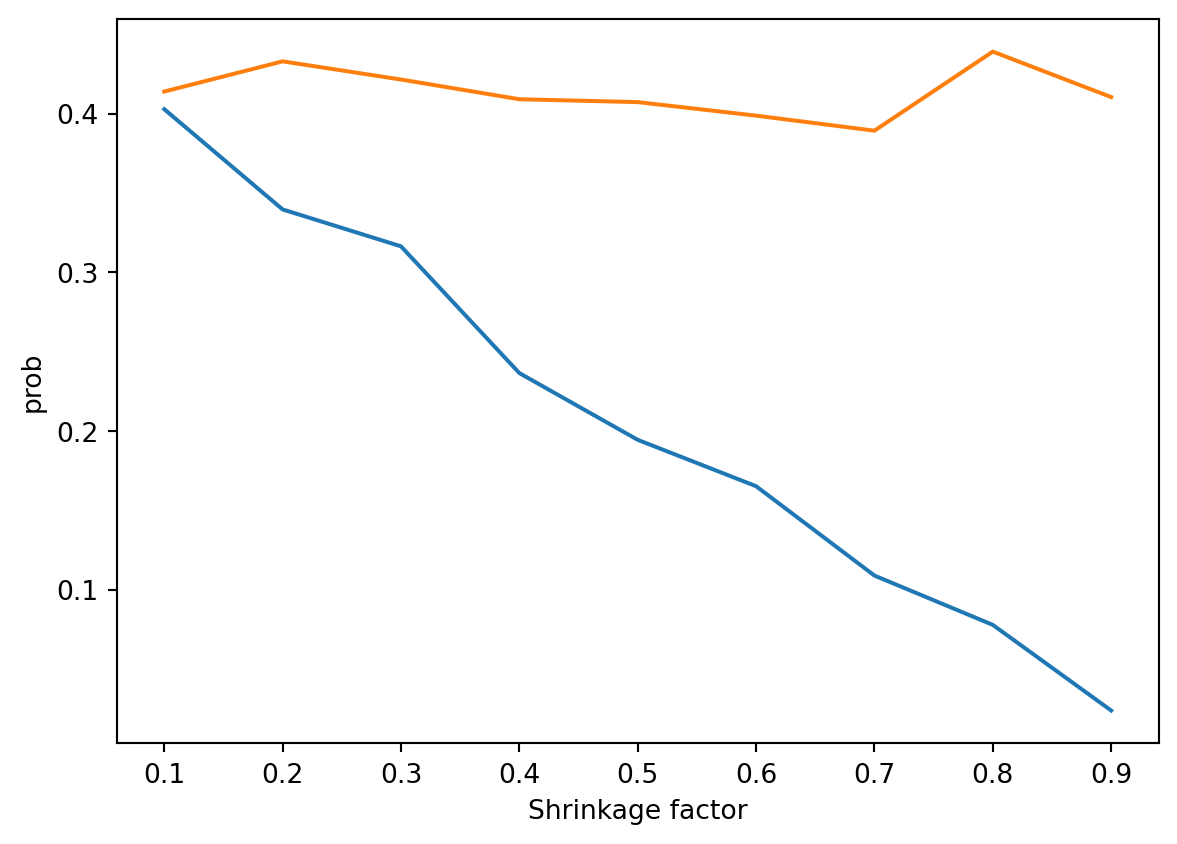
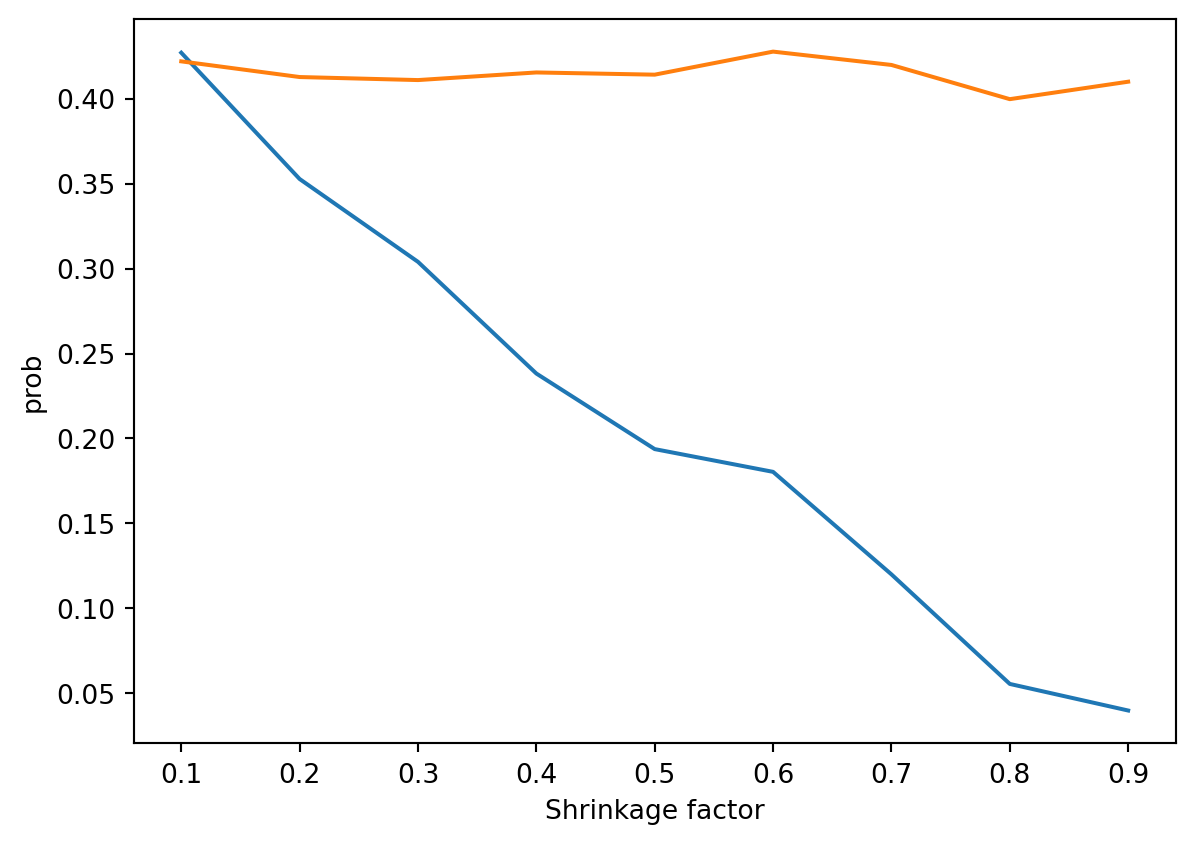
exp4

diff --git a/experiments/_site/exp4.html b/experiments/_site/exp4.html
@@ -100,20 +100,32 @@
     "collapse-after": 2,
     "panel-placement": "start",
     "type": "textbox",
-    "limit": 20
+    "limit": 20,
+    "language": {
+      "search-no-results-text": "No results",
+      "search-matching-documents-text": "matching documents",
+      "search-copy-link-title": "Copy link to search",
+      "search-hide-matches-text": "Hide additional matches",
+      "search-more-match-text": "more match in this document",
+      "search-more-matches-text": "more matches in this document",
+      "search-clear-button-title": "Clear",
+      "search-detached-cancel-button-title": "Cancel",
+      "search-submit-button-title": "Submit"
+    }
   }</script>
 </head>
-<body>
+<body class="fullcontent">
 <div id="quarto-search-results"></div>
- <!-- /navbar/sidebar -->
-<div class="container-fluid quarto-container d-flex flex-column page-layout-article" id="quarto-content">
-<div class="row flex-fill">
-  <div class="col mx-auto col-sm-12 col-md-11 col-lg-9 px-lg-4">
-<main>
+<!-- content -->
+<div id="quarto-content" class="quarto-container page-columns page-rows-contents page-layout-article">
+<!-- sidebar -->
+<!-- margin-sidebar -->
+<!-- main -->
+<main class="content">
 <section id="community-wide-impact-of-network-modifications" class="level1">
 <h1>Community-wide impact of network modifications</h1>
 <p>(This is Section 5.3)</p>
-<p>Same as <a href="experiment3.qmd">experiment 3</a>, but we range the community shrinkage from 0.1 to 0.9.</p>
+<p>Same as <a href="./exp3.html">experiment 3</a>, but we range the community shrinkage from 0.1 to 0.9.</p>
 <p></p><details>
 <summary>Code</summary><p></p>
 <div class="sourceCode" id="cb1"><pre class="sourceCode python cell-code code-with-copy"><code class="sourceCode python"><span id="cb1-1"><a href="#cb1-1" aria-hidden="true" tabindex="-1"></a><span class="im">from</span> exps <span class="im">import</span> <span class="op">*</span></span>
@@ -143,36 +155,44 @@
 <span id="cb1-25"><a href="#cb1-25" aria-hidden="true" tabindex="-1"></a>        n2 <span class="op">=</span> <span class="bu">int</span>(params[<span class="st">"n"</span>] <span class="op">*</span> (<span class="dv">1</span> <span class="op">-</span> <span class="fl">0.1</span>))</span>
 <span id="cb1-26"><a href="#cb1-26" aria-hidden="true" tabindex="-1"></a>        params[<span class="st">"n1"</span>] <span class="op">=</span> n1</span>
 <span id="cb1-27"><a href="#cb1-27" aria-hidden="true" tabindex="-1"></a>        params[<span class="st">"n2"</span>] <span class="op">=</span> n2</span>
-<span id="cb1-28"><a href="#cb1-28" aria-hidden="true" tabindex="-1"></a>        graph <span class="op">=</span> two_communities(params)</span>
-<span id="cb1-29"><a href="#cb1-29" aria-hidden="true" tabindex="-1"></a>        seeds <span class="op">=</span> set_seeds(params)</span>
-<span id="cb1-30"><a href="#cb1-30" aria-hidden="true" tabindex="-1"></a>        params[<span class="st">"graph"</span>] <span class="op">=</span> graph</span>
-<span id="cb1-31"><a href="#cb1-31" aria-hidden="true" tabindex="-1"></a>        params[<span class="st">"seeds"</span>] <span class="op">=</span> seeds</span>
-<span id="cb1-32"><a href="#cb1-32" aria-hidden="true" tabindex="-1"></a>        ic_result <span class="op">=</span> run_experiment(params)</span>
-<span id="cb1-33"><a href="#cb1-33" aria-hidden="true" tabindex="-1"></a>        ic_result <span class="op">=</span> f(ic_result, params)</span>
-<span id="cb1-34"><a href="#cb1-34" aria-hidden="true" tabindex="-1"></a>        c1, c2 <span class="op">=</span> split_result_by_communities(ic_result, params)</span>
-<span id="cb1-35"><a href="#cb1-35" aria-hidden="true" tabindex="-1"></a>        c1s.append(numpy.mean(c1))</span>
-<span id="cb1-36"><a href="#cb1-36" aria-hidden="true" tabindex="-1"></a>        c2s.append(numpy.mean(c2))</span>
-<span id="cb1-37"><a href="#cb1-37" aria-hidden="true" tabindex="-1"></a>    <span class="cf">return</span> c1s, c2s</span>
-<span id="cb1-38"><a href="#cb1-38" aria-hidden="true" tabindex="-1"></a>    </span>
-<span id="cb1-39"><a href="#cb1-39" aria-hidden="true" tabindex="-1"></a><span class="kw">def</span> <span class="bu">id</span>(r, params):</span>
-<span id="cb1-40"><a href="#cb1-40" aria-hidden="true" tabindex="-1"></a>    <span class="cf">return</span> r</span>
-<span id="cb1-41"><a href="#cb1-41" aria-hidden="true" tabindex="-1"></a><span class="kw">def</span> square(r, params):</span>
-<span id="cb1-42"><a href="#cb1-42" aria-hidden="true" tabindex="-1"></a>    <span class="cf">return</span> numpy.array(r) <span class="op">**</span> <span class="dv">2</span></span>
-<span id="cb1-43"><a href="#cb1-43" aria-hidden="true" tabindex="-1"></a><span class="kw">def</span> mean(r, params):</span>
-<span id="cb1-44"><a href="#cb1-44" aria-hidden="true" tabindex="-1"></a>    r <span class="op">=</span> collect_neighbor_data(r, params)</span>
-<span id="cb1-45"><a href="#cb1-45" aria-hidden="true" tabindex="-1"></a>    <span class="cf">return</span> <span class="bu">list</span>(numpy.mean(v) <span class="cf">for</span> v <span class="kw">in</span> r <span class="cf">if</span> <span class="bu">len</span>(v))</span>
-<span id="cb1-46"><a href="#cb1-46" aria-hidden="true" tabindex="-1"></a><span class="kw">def</span> <span class="bu">min</span>(r, params):</span>
-<span id="cb1-47"><a href="#cb1-47" aria-hidden="true" tabindex="-1"></a>    r <span class="op">=</span> collect_neighbor_data(r, params)</span>
-<span id="cb1-48"><a href="#cb1-48" aria-hidden="true" tabindex="-1"></a>    <span class="cf">return</span> <span class="bu">list</span>(numpy.<span class="bu">min</span>(v) <span class="cf">for</span> v <span class="kw">in</span> r <span class="cf">if</span> <span class="bu">len</span>(v))</span>
-<span id="cb1-49"><a href="#cb1-49" aria-hidden="true" tabindex="-1"></a>factors <span class="op">=</span> [<span class="fl">0.1</span>, <span class="fl">0.2</span>, <span class="fl">0.3</span>, <span class="fl">0.4</span>, <span class="fl">0.5</span>, <span class="fl">0.6</span>, <span class="fl">0.7</span>, <span class="fl">0.8</span>, <span class="fl">0.9</span>]</span>
-<span id="cb1-50"><a href="#cb1-50" aria-hidden="true" tabindex="-1"></a><span class="kw">def</span> plot_curve(f, label):</span>
-<span id="cb1-51"><a href="#cb1-51" aria-hidden="true" tabindex="-1"></a>    c1s, c2s <span class="op">=</span> run_experiment_range(factors, f)</span>
-<span id="cb1-52"><a href="#cb1-52" aria-hidden="true" tabindex="-1"></a>    plt.figure()</span>
-<span id="cb1-53"><a href="#cb1-53" aria-hidden="true" tabindex="-1"></a>    plt.plot(factors, c1s)</span>
-<span id="cb1-54"><a href="#cb1-54" aria-hidden="true" tabindex="-1"></a>    plt.plot(factors, c2s)</span>
-<span id="cb1-55"><a href="#cb1-55" aria-hidden="true" tabindex="-1"></a>    plt.xlabel(<span class="st">"Shrinkage factor"</span>)</span>
-<span id="cb1-56"><a href="#cb1-56" aria-hidden="true" tabindex="-1"></a>    plt.ylabel(label)</span>
-<span id="cb1-57"><a href="#cb1-57" aria-hidden="true" tabindex="-1"></a>    plt.show()</span></code><button title="Copy to Clipboard" class="code-copy-button"><i class="bi"></i></button></pre></div>
+<span id="cb1-28"><a href="#cb1-28" aria-hidden="true" tabindex="-1"></a>        params[<span class="st">"communities"</span>] <span class="op">=</span> [<span class="bu">list</span>(<span class="bu">range</span>(<span class="dv">0</span>, n1)), <span class="bu">list</span>(<span class="bu">range</span>(n1, n1 <span class="op">+</span> n2))]</span>
+<span id="cb1-29"><a href="#cb1-29" aria-hidden="true" tabindex="-1"></a>        params[<span class="st">"graph"</span>] <span class="op">=</span> two_communities(params)</span>
+<span id="cb1-30"><a href="#cb1-30" aria-hidden="true" tabindex="-1"></a>        params[<span class="st">"seeds"</span>] <span class="op">=</span> set_seeds(params)</span>
+<span id="cb1-31"><a href="#cb1-31" aria-hidden="true" tabindex="-1"></a>        ic_result <span class="op">=</span> run_experiment(params)</span>
+<span id="cb1-32"><a href="#cb1-32" aria-hidden="true" tabindex="-1"></a>        ic_result <span class="op">=</span> f(ic_result, params)</span>
+<span id="cb1-33"><a href="#cb1-33" aria-hidden="true" tabindex="-1"></a>        c1, c2 <span class="op">=</span> split_result_by_communities(ic_result, params)</span>
+<span id="cb1-34"><a href="#cb1-34" aria-hidden="true" tabindex="-1"></a>        c1s.append(numpy.mean(c1))</span>
+<span id="cb1-35"><a href="#cb1-35" aria-hidden="true" tabindex="-1"></a>        c2s.append(numpy.mean(c2))</span>
+<span id="cb1-36"><a href="#cb1-36" aria-hidden="true" tabindex="-1"></a>    <span class="cf">return</span> c1s, c2s</span>
+<span id="cb1-37"><a href="#cb1-37" aria-hidden="true" tabindex="-1"></a>    </span>
+<span id="cb1-38"><a href="#cb1-38" aria-hidden="true" tabindex="-1"></a><span class="kw">def</span> <span class="bu">id</span>(r, params):</span>
+<span id="cb1-39"><a href="#cb1-39" aria-hidden="true" tabindex="-1"></a>    <span class="cf">return</span> r</span>
+<span id="cb1-40"><a href="#cb1-40" aria-hidden="true" tabindex="-1"></a><span class="kw">def</span> square(r, params):</span>
+<span id="cb1-41"><a href="#cb1-41" aria-hidden="true" tabindex="-1"></a>    <span class="cf">return</span> numpy.array(r) <span class="op">**</span> <span class="dv">2</span></span>
+<span id="cb1-42"><a href="#cb1-42" aria-hidden="true" tabindex="-1"></a><span class="kw">def</span> mean(r, params):</span>
+<span id="cb1-43"><a href="#cb1-43" aria-hidden="true" tabindex="-1"></a>    r <span class="op">=</span> collect_neighbor_data(r, params)</span>
+<span id="cb1-44"><a href="#cb1-44" aria-hidden="true" tabindex="-1"></a>    <span class="kw">def</span> mean_or_none(v):</span>
+<span id="cb1-45"><a href="#cb1-45" aria-hidden="true" tabindex="-1"></a>        <span class="cf">if</span> <span class="bu">len</span>(v) <span class="op">==</span> <span class="dv">0</span>:</span>
+<span id="cb1-46"><a href="#cb1-46" aria-hidden="true" tabindex="-1"></a>            <span class="cf">return</span> <span class="va">None</span></span>
+<span id="cb1-47"><a href="#cb1-47" aria-hidden="true" tabindex="-1"></a>        <span class="cf">return</span> numpy.mean(v)</span>
+<span id="cb1-48"><a href="#cb1-48" aria-hidden="true" tabindex="-1"></a>    <span class="cf">return</span> <span class="bu">list</span>(mean_or_none(v) <span class="cf">for</span> v <span class="kw">in</span> r)</span>
+<span id="cb1-49"><a href="#cb1-49" aria-hidden="true" tabindex="-1"></a><span class="kw">def</span> <span class="bu">min</span>(r, params):</span>
+<span id="cb1-50"><a href="#cb1-50" aria-hidden="true" tabindex="-1"></a>    r <span class="op">=</span> collect_neighbor_data(r, params)</span>
+<span id="cb1-51"><a href="#cb1-51" aria-hidden="true" tabindex="-1"></a>    <span class="kw">def</span> min_or_none(v):</span>
+<span id="cb1-52"><a href="#cb1-52" aria-hidden="true" tabindex="-1"></a>        <span class="cf">if</span> <span class="bu">len</span>(v) <span class="op">==</span> <span class="dv">0</span>:</span>
+<span id="cb1-53"><a href="#cb1-53" aria-hidden="true" tabindex="-1"></a>            <span class="cf">return</span> <span class="va">None</span></span>
+<span id="cb1-54"><a href="#cb1-54" aria-hidden="true" tabindex="-1"></a>        <span class="cf">return</span> numpy.<span class="bu">min</span>(v)</span>
+<span id="cb1-55"><a href="#cb1-55" aria-hidden="true" tabindex="-1"></a>    <span class="cf">return</span> <span class="bu">list</span>(min_or_none(v) <span class="cf">for</span> v <span class="kw">in</span> r)</span>
+<span id="cb1-56"><a href="#cb1-56" aria-hidden="true" tabindex="-1"></a></span>
+<span id="cb1-57"><a href="#cb1-57" aria-hidden="true" tabindex="-1"></a>factors <span class="op">=</span> [<span class="fl">0.1</span>, <span class="fl">0.2</span>, <span class="fl">0.3</span>, <span class="fl">0.4</span>, <span class="fl">0.5</span>, <span class="fl">0.6</span>, <span class="fl">0.7</span>, <span class="fl">0.8</span>, <span class="fl">0.9</span>]</span>
+<span id="cb1-58"><a href="#cb1-58" aria-hidden="true" tabindex="-1"></a><span class="kw">def</span> plot_curve(f, label):</span>
+<span id="cb1-59"><a href="#cb1-59" aria-hidden="true" tabindex="-1"></a>    c1s, c2s <span class="op">=</span> run_experiment_range(factors, f)</span>
+<span id="cb1-60"><a href="#cb1-60" aria-hidden="true" tabindex="-1"></a>    plt.figure()</span>
+<span id="cb1-61"><a href="#cb1-61" aria-hidden="true" tabindex="-1"></a>    plt.plot(factors, c1s)</span>
+<span id="cb1-62"><a href="#cb1-62" aria-hidden="true" tabindex="-1"></a>    plt.plot(factors, c2s)</span>
+<span id="cb1-63"><a href="#cb1-63" aria-hidden="true" tabindex="-1"></a>    plt.xlabel(<span class="st">"Shrinkage factor"</span>)</span>
+<span id="cb1-64"><a href="#cb1-64" aria-hidden="true" tabindex="-1"></a>    plt.ylabel(label)</span>
+<span id="cb1-65"><a href="#cb1-65" aria-hidden="true" tabindex="-1"></a>    plt.show()</span></code><button title="Copy to Clipboard" class="code-copy-button"><i class="bi"></i></button></pre></div>
 </details>
 <p>No transformation:</p>
 <div class="cell" data-execution_count="2">
@@ -181,7 +201,7 @@
 <div class="sourceCode" id="cb2"><pre class="sourceCode python cell-code code-with-copy"><code class="sourceCode python"><span id="cb2-1"><a href="#cb2-1" aria-hidden="true" tabindex="-1"></a>plot_curve(<span class="bu">id</span>, <span class="st">"prob"</span>)</span></code><button title="Copy to Clipboard" class="code-copy-button"><i class="bi"></i></button></pre></div>
 </details>
 <div class="cell-output-display">
-<p><img src="exp4_files/figure-html/cell-3-output-1.png" width="589" height="422"></p>
+<p><img src="exp4_files/figure-html/cell-3-output-1.png" width="597" height="422"></p>
 </div>
 </div>
 <p>Square:</p>
@@ -217,7 +237,7 @@
 
 
 <!-- -->
-<div class="modal fade" id="quarto-embedded-source-code-modal" tabindex="-1" aria-labelledby="quarto-embedded-source-code-modal-label" aria-hidden="true"><div class="modal-dialog modal-dialog-scrollable"><div class="modal-content"><div class="modal-header"><h5 class="modal-title anchored" id="quarto-embedded-source-code-modal-label" data-anchor-id="community-wide-impact-of-network-modifications">Source Code</h5><button class="btn-close" data-bs-dismiss="modal" aria-label="Close"></button></div><div class="modal-body"><div class="">
+<div class="modal fade" id="quarto-embedded-source-code-modal" tabindex="-1" aria-labelledby="quarto-embedded-source-code-modal-label" aria-hidden="true"><div class="modal-dialog modal-dialog-scrollable"><div class="modal-content"><div class="modal-header"><h5 class="modal-title anchored" id="quarto-embedded-source-code-modal-label" data-anchor-id="community-wide-impact-of-network-modifications">Source Code</h5><button class="btn-close" data-bs-dismiss="modal"></button></div><div class="modal-body"><div class="">
 <div class="sourceCode" id="cb6" data-shortcodes="false"><pre class="sourceCode markdown code-with-copy"><code class="sourceCode markdown"><span id="cb6-1"><a href="#cb6-1" aria-hidden="true" tabindex="-1"></a><span class="co">---</span></span>
 <span id="cb6-2"><a href="#cb6-2" aria-hidden="true" tabindex="-1"></a><span class="an">Title:</span><span class="co"> "Experiment 4"</span></span>
 <span id="cb6-3"><a href="#cb6-3" aria-hidden="true" tabindex="-1"></a><span class="an">format:</span><span class="co"> </span></span>
@@ -230,7 +250,7 @@
 <span id="cb6-10"><a href="#cb6-10" aria-hidden="true" tabindex="-1"></a></span>
 <span id="cb6-11"><a href="#cb6-11" aria-hidden="true" tabindex="-1"></a>(This is Section 5.3)</span>
 <span id="cb6-12"><a href="#cb6-12" aria-hidden="true" tabindex="-1"></a></span>
-<span id="cb6-13"><a href="#cb6-13" aria-hidden="true" tabindex="-1"></a>Same as <span class="co">[</span><span class="ot">experiment 3</span><span class="co">](experiment3.qmd)</span>, but we range the community shrinkage from 0.1 to 0.9.</span>
+<span id="cb6-13"><a href="#cb6-13" aria-hidden="true" tabindex="-1"></a>Same as <span class="co">[</span><span class="ot">experiment 3</span><span class="co">](exp3.qmd)</span>, but we range the community shrinkage from 0.1 to 0.9.</span>
 <span id="cb6-14"><a href="#cb6-14" aria-hidden="true" tabindex="-1"></a></span>
 <span id="cb6-17"><a href="#cb6-17" aria-hidden="true" tabindex="-1"></a><span class="in">```{python}</span></span>
 <span id="cb6-18"><a href="#cb6-18" aria-hidden="true" tabindex="-1"></a><span class="im">from</span> exps <span class="im">import</span> <span class="op">*</span></span>
@@ -260,65 +280,74 @@
 <span id="cb6-42"><a href="#cb6-42" aria-hidden="true" tabindex="-1"></a>        n2 <span class="op">=</span> <span class="bu">int</span>(params[<span class="st">"n"</span>] <span class="op">*</span> (<span class="dv">1</span> <span class="op">-</span> <span class="fl">0.1</span>))</span>
 <span id="cb6-43"><a href="#cb6-43" aria-hidden="true" tabindex="-1"></a>        params[<span class="st">"n1"</span>] <span class="op">=</span> n1</span>
 <span id="cb6-44"><a href="#cb6-44" aria-hidden="true" tabindex="-1"></a>        params[<span class="st">"n2"</span>] <span class="op">=</span> n2</span>
-<span id="cb6-45"><a href="#cb6-45" aria-hidden="true" tabindex="-1"></a>        graph <span class="op">=</span> two_communities(params)</span>
-<span id="cb6-46"><a href="#cb6-46" aria-hidden="true" tabindex="-1"></a>        seeds <span class="op">=</span> set_seeds(params)</span>
-<span id="cb6-47"><a href="#cb6-47" aria-hidden="true" tabindex="-1"></a>        params[<span class="st">"graph"</span>] <span class="op">=</span> graph</span>
-<span id="cb6-48"><a href="#cb6-48" aria-hidden="true" tabindex="-1"></a>        params[<span class="st">"seeds"</span>] <span class="op">=</span> seeds</span>
-<span id="cb6-49"><a href="#cb6-49" aria-hidden="true" tabindex="-1"></a>        ic_result <span class="op">=</span> run_experiment(params)</span>
-<span id="cb6-50"><a href="#cb6-50" aria-hidden="true" tabindex="-1"></a>        ic_result <span class="op">=</span> f(ic_result, params)</span>
-<span id="cb6-51"><a href="#cb6-51" aria-hidden="true" tabindex="-1"></a>        c1, c2 <span class="op">=</span> split_result_by_communities(ic_result, params)</span>
-<span id="cb6-52"><a href="#cb6-52" aria-hidden="true" tabindex="-1"></a>        c1s.append(numpy.mean(c1))</span>
-<span id="cb6-53"><a href="#cb6-53" aria-hidden="true" tabindex="-1"></a>        c2s.append(numpy.mean(c2))</span>
-<span id="cb6-54"><a href="#cb6-54" aria-hidden="true" tabindex="-1"></a>    <span class="cf">return</span> c1s, c2s</span>
-<span id="cb6-55"><a href="#cb6-55" aria-hidden="true" tabindex="-1"></a>    </span>
-<span id="cb6-56"><a href="#cb6-56" aria-hidden="true" tabindex="-1"></a><span class="kw">def</span> <span class="bu">id</span>(r, params):</span>
-<span id="cb6-57"><a href="#cb6-57" aria-hidden="true" tabindex="-1"></a>    <span class="cf">return</span> r</span>
-<span id="cb6-58"><a href="#cb6-58" aria-hidden="true" tabindex="-1"></a><span class="kw">def</span> square(r, params):</span>
-<span id="cb6-59"><a href="#cb6-59" aria-hidden="true" tabindex="-1"></a>    <span class="cf">return</span> numpy.array(r) <span class="op">**</span> <span class="dv">2</span></span>
-<span id="cb6-60"><a href="#cb6-60" aria-hidden="true" tabindex="-1"></a><span class="kw">def</span> mean(r, params):</span>
-<span id="cb6-61"><a href="#cb6-61" aria-hidden="true" tabindex="-1"></a>    r <span class="op">=</span> collect_neighbor_data(r, params)</span>
-<span id="cb6-62"><a href="#cb6-62" aria-hidden="true" tabindex="-1"></a>    <span class="cf">return</span> <span class="bu">list</span>(numpy.mean(v) <span class="cf">for</span> v <span class="kw">in</span> r <span class="cf">if</span> <span class="bu">len</span>(v))</span>
-<span id="cb6-63"><a href="#cb6-63" aria-hidden="true" tabindex="-1"></a><span class="kw">def</span> <span class="bu">min</span>(r, params):</span>
-<span id="cb6-64"><a href="#cb6-64" aria-hidden="true" tabindex="-1"></a>    r <span class="op">=</span> collect_neighbor_data(r, params)</span>
-<span id="cb6-65"><a href="#cb6-65" aria-hidden="true" tabindex="-1"></a>    <span class="cf">return</span> <span class="bu">list</span>(numpy.<span class="bu">min</span>(v) <span class="cf">for</span> v <span class="kw">in</span> r <span class="cf">if</span> <span class="bu">len</span>(v))</span>
-<span id="cb6-66"><a href="#cb6-66" aria-hidden="true" tabindex="-1"></a>factors <span class="op">=</span> [<span class="fl">0.1</span>, <span class="fl">0.2</span>, <span class="fl">0.3</span>, <span class="fl">0.4</span>, <span class="fl">0.5</span>, <span class="fl">0.6</span>, <span class="fl">0.7</span>, <span class="fl">0.8</span>, <span class="fl">0.9</span>]</span>
-<span id="cb6-67"><a href="#cb6-67" aria-hidden="true" tabindex="-1"></a><span class="kw">def</span> plot_curve(f, label):</span>
-<span id="cb6-68"><a href="#cb6-68" aria-hidden="true" tabindex="-1"></a>    c1s, c2s <span class="op">=</span> run_experiment_range(factors, f)</span>
-<span id="cb6-69"><a href="#cb6-69" aria-hidden="true" tabindex="-1"></a>    plt.figure()</span>
-<span id="cb6-70"><a href="#cb6-70" aria-hidden="true" tabindex="-1"></a>    plt.plot(factors, c1s)</span>
-<span id="cb6-71"><a href="#cb6-71" aria-hidden="true" tabindex="-1"></a>    plt.plot(factors, c2s)</span>
-<span id="cb6-72"><a href="#cb6-72" aria-hidden="true" tabindex="-1"></a>    plt.xlabel(<span class="st">"Shrinkage factor"</span>)</span>
-<span id="cb6-73"><a href="#cb6-73" aria-hidden="true" tabindex="-1"></a>    plt.ylabel(label)</span>
-<span id="cb6-74"><a href="#cb6-74" aria-hidden="true" tabindex="-1"></a>    plt.show()</span>
-<span id="cb6-75"><a href="#cb6-75" aria-hidden="true" tabindex="-1"></a></span>
-<span id="cb6-76"><a href="#cb6-76" aria-hidden="true" tabindex="-1"></a><span class="in">```</span></span>
-<span id="cb6-77"><a href="#cb6-77" aria-hidden="true" tabindex="-1"></a></span>
-<span id="cb6-78"><a href="#cb6-78" aria-hidden="true" tabindex="-1"></a>No transformation:</span>
-<span id="cb6-79"><a href="#cb6-79" aria-hidden="true" tabindex="-1"></a></span>
-<span id="cb6-82"><a href="#cb6-82" aria-hidden="true" tabindex="-1"></a><span class="in">```{python}</span></span>
-<span id="cb6-83"><a href="#cb6-83" aria-hidden="true" tabindex="-1"></a>plot_curve(<span class="bu">id</span>, <span class="st">"prob"</span>)</span>
+<span id="cb6-45"><a href="#cb6-45" aria-hidden="true" tabindex="-1"></a>        params[<span class="st">"communities"</span>] <span class="op">=</span> [<span class="bu">list</span>(<span class="bu">range</span>(<span class="dv">0</span>, n1)), <span class="bu">list</span>(<span class="bu">range</span>(n1, n1 <span class="op">+</span> n2))]</span>
+<span id="cb6-46"><a href="#cb6-46" aria-hidden="true" tabindex="-1"></a>        params[<span class="st">"graph"</span>] <span class="op">=</span> two_communities(params)</span>
+<span id="cb6-47"><a href="#cb6-47" aria-hidden="true" tabindex="-1"></a>        params[<span class="st">"seeds"</span>] <span class="op">=</span> set_seeds(params)</span>
+<span id="cb6-48"><a href="#cb6-48" aria-hidden="true" tabindex="-1"></a>        ic_result <span class="op">=</span> run_experiment(params)</span>
+<span id="cb6-49"><a href="#cb6-49" aria-hidden="true" tabindex="-1"></a>        ic_result <span class="op">=</span> f(ic_result, params)</span>
+<span id="cb6-50"><a href="#cb6-50" aria-hidden="true" tabindex="-1"></a>        c1, c2 <span class="op">=</span> split_result_by_communities(ic_result, params)</span>
+<span id="cb6-51"><a href="#cb6-51" aria-hidden="true" tabindex="-1"></a>        c1s.append(numpy.mean(c1))</span>
+<span id="cb6-52"><a href="#cb6-52" aria-hidden="true" tabindex="-1"></a>        c2s.append(numpy.mean(c2))</span>
+<span id="cb6-53"><a href="#cb6-53" aria-hidden="true" tabindex="-1"></a>    <span class="cf">return</span> c1s, c2s</span>
+<span id="cb6-54"><a href="#cb6-54" aria-hidden="true" tabindex="-1"></a>    </span>
+<span id="cb6-55"><a href="#cb6-55" aria-hidden="true" tabindex="-1"></a><span class="kw">def</span> <span class="bu">id</span>(r, params):</span>
+<span id="cb6-56"><a href="#cb6-56" aria-hidden="true" tabindex="-1"></a>    <span class="cf">return</span> r</span>
+<span id="cb6-57"><a href="#cb6-57" aria-hidden="true" tabindex="-1"></a><span class="kw">def</span> square(r, params):</span>
+<span id="cb6-58"><a href="#cb6-58" aria-hidden="true" tabindex="-1"></a>    <span class="cf">return</span> numpy.array(r) <span class="op">**</span> <span class="dv">2</span></span>
+<span id="cb6-59"><a href="#cb6-59" aria-hidden="true" tabindex="-1"></a><span class="kw">def</span> mean(r, params):</span>
+<span id="cb6-60"><a href="#cb6-60" aria-hidden="true" tabindex="-1"></a>    r <span class="op">=</span> collect_neighbor_data(r, params)</span>
+<span id="cb6-61"><a href="#cb6-61" aria-hidden="true" tabindex="-1"></a>    <span class="kw">def</span> mean_or_none(v):</span>
+<span id="cb6-62"><a href="#cb6-62" aria-hidden="true" tabindex="-1"></a>        <span class="cf">if</span> <span class="bu">len</span>(v) <span class="op">==</span> <span class="dv">0</span>:</span>
+<span id="cb6-63"><a href="#cb6-63" aria-hidden="true" tabindex="-1"></a>            <span class="cf">return</span> <span class="va">None</span></span>
+<span id="cb6-64"><a href="#cb6-64" aria-hidden="true" tabindex="-1"></a>        <span class="cf">return</span> numpy.mean(v)</span>
+<span id="cb6-65"><a href="#cb6-65" aria-hidden="true" tabindex="-1"></a>    <span class="cf">return</span> <span class="bu">list</span>(mean_or_none(v) <span class="cf">for</span> v <span class="kw">in</span> r)</span>
+<span id="cb6-66"><a href="#cb6-66" aria-hidden="true" tabindex="-1"></a><span class="kw">def</span> <span class="bu">min</span>(r, params):</span>
+<span id="cb6-67"><a href="#cb6-67" aria-hidden="true" tabindex="-1"></a>    r <span class="op">=</span> collect_neighbor_data(r, params)</span>
+<span id="cb6-68"><a href="#cb6-68" aria-hidden="true" tabindex="-1"></a>    <span class="kw">def</span> min_or_none(v):</span>
+<span id="cb6-69"><a href="#cb6-69" aria-hidden="true" tabindex="-1"></a>        <span class="cf">if</span> <span class="bu">len</span>(v) <span class="op">==</span> <span class="dv">0</span>:</span>
+<span id="cb6-70"><a href="#cb6-70" aria-hidden="true" tabindex="-1"></a>            <span class="cf">return</span> <span class="va">None</span></span>
+<span id="cb6-71"><a href="#cb6-71" aria-hidden="true" tabindex="-1"></a>        <span class="cf">return</span> numpy.<span class="bu">min</span>(v)</span>
+<span id="cb6-72"><a href="#cb6-72" aria-hidden="true" tabindex="-1"></a>    <span class="cf">return</span> <span class="bu">list</span>(min_or_none(v) <span class="cf">for</span> v <span class="kw">in</span> r)</span>
+<span id="cb6-73"><a href="#cb6-73" aria-hidden="true" tabindex="-1"></a></span>
+<span id="cb6-74"><a href="#cb6-74" aria-hidden="true" tabindex="-1"></a>factors <span class="op">=</span> [<span class="fl">0.1</span>, <span class="fl">0.2</span>, <span class="fl">0.3</span>, <span class="fl">0.4</span>, <span class="fl">0.5</span>, <span class="fl">0.6</span>, <span class="fl">0.7</span>, <span class="fl">0.8</span>, <span class="fl">0.9</span>]</span>
+<span id="cb6-75"><a href="#cb6-75" aria-hidden="true" tabindex="-1"></a><span class="kw">def</span> plot_curve(f, label):</span>
+<span id="cb6-76"><a href="#cb6-76" aria-hidden="true" tabindex="-1"></a>    c1s, c2s <span class="op">=</span> run_experiment_range(factors, f)</span>
+<span id="cb6-77"><a href="#cb6-77" aria-hidden="true" tabindex="-1"></a>    plt.figure()</span>
+<span id="cb6-78"><a href="#cb6-78" aria-hidden="true" tabindex="-1"></a>    plt.plot(factors, c1s)</span>
+<span id="cb6-79"><a href="#cb6-79" aria-hidden="true" tabindex="-1"></a>    plt.plot(factors, c2s)</span>
+<span id="cb6-80"><a href="#cb6-80" aria-hidden="true" tabindex="-1"></a>    plt.xlabel(<span class="st">"Shrinkage factor"</span>)</span>
+<span id="cb6-81"><a href="#cb6-81" aria-hidden="true" tabindex="-1"></a>    plt.ylabel(label)</span>
+<span id="cb6-82"><a href="#cb6-82" aria-hidden="true" tabindex="-1"></a>    plt.show()</span>
+<span id="cb6-83"><a href="#cb6-83" aria-hidden="true" tabindex="-1"></a></span>
 <span id="cb6-84"><a href="#cb6-84" aria-hidden="true" tabindex="-1"></a><span class="in">```</span></span>
 <span id="cb6-85"><a href="#cb6-85" aria-hidden="true" tabindex="-1"></a></span>
-<span id="cb6-86"><a href="#cb6-86" aria-hidden="true" tabindex="-1"></a>Square:</span>
+<span id="cb6-86"><a href="#cb6-86" aria-hidden="true" tabindex="-1"></a>No transformation:</span>
 <span id="cb6-87"><a href="#cb6-87" aria-hidden="true" tabindex="-1"></a></span>
 <span id="cb6-90"><a href="#cb6-90" aria-hidden="true" tabindex="-1"></a><span class="in">```{python}</span></span>
-<span id="cb6-91"><a href="#cb6-91" aria-hidden="true" tabindex="-1"></a>plot_curve(square, <span class="st">"squared prob"</span>)</span>
+<span id="cb6-91"><a href="#cb6-91" aria-hidden="true" tabindex="-1"></a>plot_curve(<span class="bu">id</span>, <span class="st">"prob"</span>)</span>
 <span id="cb6-92"><a href="#cb6-92" aria-hidden="true" tabindex="-1"></a><span class="in">```</span></span>
 <span id="cb6-93"><a href="#cb6-93" aria-hidden="true" tabindex="-1"></a></span>
-<span id="cb6-94"><a href="#cb6-94" aria-hidden="true" tabindex="-1"></a>Mean of neighbors:</span>
+<span id="cb6-94"><a href="#cb6-94" aria-hidden="true" tabindex="-1"></a>Square:</span>
 <span id="cb6-95"><a href="#cb6-95" aria-hidden="true" tabindex="-1"></a></span>
 <span id="cb6-98"><a href="#cb6-98" aria-hidden="true" tabindex="-1"></a><span class="in">```{python}</span></span>
-<span id="cb6-99"><a href="#cb6-99" aria-hidden="true" tabindex="-1"></a>plot_curve(mean, <span class="st">"mean of neighbors' prob"</span>)</span>
+<span id="cb6-99"><a href="#cb6-99" aria-hidden="true" tabindex="-1"></a>plot_curve(square, <span class="st">"squared prob"</span>)</span>
 <span id="cb6-100"><a href="#cb6-100" aria-hidden="true" tabindex="-1"></a><span class="in">```</span></span>
 <span id="cb6-101"><a href="#cb6-101" aria-hidden="true" tabindex="-1"></a></span>
-<span id="cb6-102"><a href="#cb6-102" aria-hidden="true" tabindex="-1"></a>Min of neighbors:</span>
+<span id="cb6-102"><a href="#cb6-102" aria-hidden="true" tabindex="-1"></a>Mean of neighbors:</span>
 <span id="cb6-103"><a href="#cb6-103" aria-hidden="true" tabindex="-1"></a></span>
 <span id="cb6-106"><a href="#cb6-106" aria-hidden="true" tabindex="-1"></a><span class="in">```{python}</span></span>
-<span id="cb6-107"><a href="#cb6-107" aria-hidden="true" tabindex="-1"></a>plot_curve(<span class="bu">min</span>, <span class="st">"min of neighbors' prob"</span>)</span>
+<span id="cb6-107"><a href="#cb6-107" aria-hidden="true" tabindex="-1"></a>plot_curve(mean, <span class="st">"mean of neighbors' prob"</span>)</span>
 <span id="cb6-108"><a href="#cb6-108" aria-hidden="true" tabindex="-1"></a><span class="in">```</span></span>
+<span id="cb6-109"><a href="#cb6-109" aria-hidden="true" tabindex="-1"></a></span>
+<span id="cb6-110"><a href="#cb6-110" aria-hidden="true" tabindex="-1"></a>Min of neighbors:</span>
+<span id="cb6-111"><a href="#cb6-111" aria-hidden="true" tabindex="-1"></a></span>
+<span id="cb6-114"><a href="#cb6-114" aria-hidden="true" tabindex="-1"></a><span class="in">```{python}</span></span>
+<span id="cb6-115"><a href="#cb6-115" aria-hidden="true" tabindex="-1"></a>plot_curve(<span class="bu">min</span>, <span class="st">"min of neighbors' prob"</span>)</span>
+<span id="cb6-116"><a href="#cb6-116" aria-hidden="true" tabindex="-1"></a><span class="in">```</span></span>
 </code><button title="Copy to Clipboard" class="code-copy-button"><i class="bi"></i></button></pre></div>
 </div></div></div></div></div>
 </section>
+</main> <!-- /main -->
 <script type="application/javascript">
 window.document.addEventListener("DOMContentLoaded", function (event) {
   const icon = "";
@@ -397,17 +426,21 @@ window.document.addEventListener("DOMContentLoaded", function (event) {
     showAllCode.addEventListener("click", toggleCodeHandler(true));
   }
   function tippyHover(el, contentFn) {
-    window.tippy(el, {
+    const config = {
       allowHTML: true,
       content: contentFn,
       maxWidth: 500,
       delay: 100,
       arrow: false,
+      appendTo: function(el) {
+          return el.parentElement;
+      },
       interactive: true,
       interactiveBorder: 10,
       theme: 'quarto',
       placement: 'bottom-start'
-    }); 
+    };
+    window.tippy(el, config); 
   }
   const noterefs = window.document.querySelectorAll('a[role="doc-noteref"]');
   for (var i=0; i<noterefs.length; i++) {
@@ -441,16 +474,13 @@ window.document.addEventListener("DOMContentLoaded", function (event) {
   }
 });
 </script>
-</main>
-<div class="page-navigation ">
+<nav class="page-navigation">
   <div class="nav-page nav-page-previous">
   </div>
   <div class="nav-page nav-page-next">
   </div>
-</div>
-</div> <!-- /main column -->
-</div> <!-- /row -->
-</div> <!-- /container fluid -->
+</nav>
+</div> <!-- /content -->
 
 
 </body></html>
